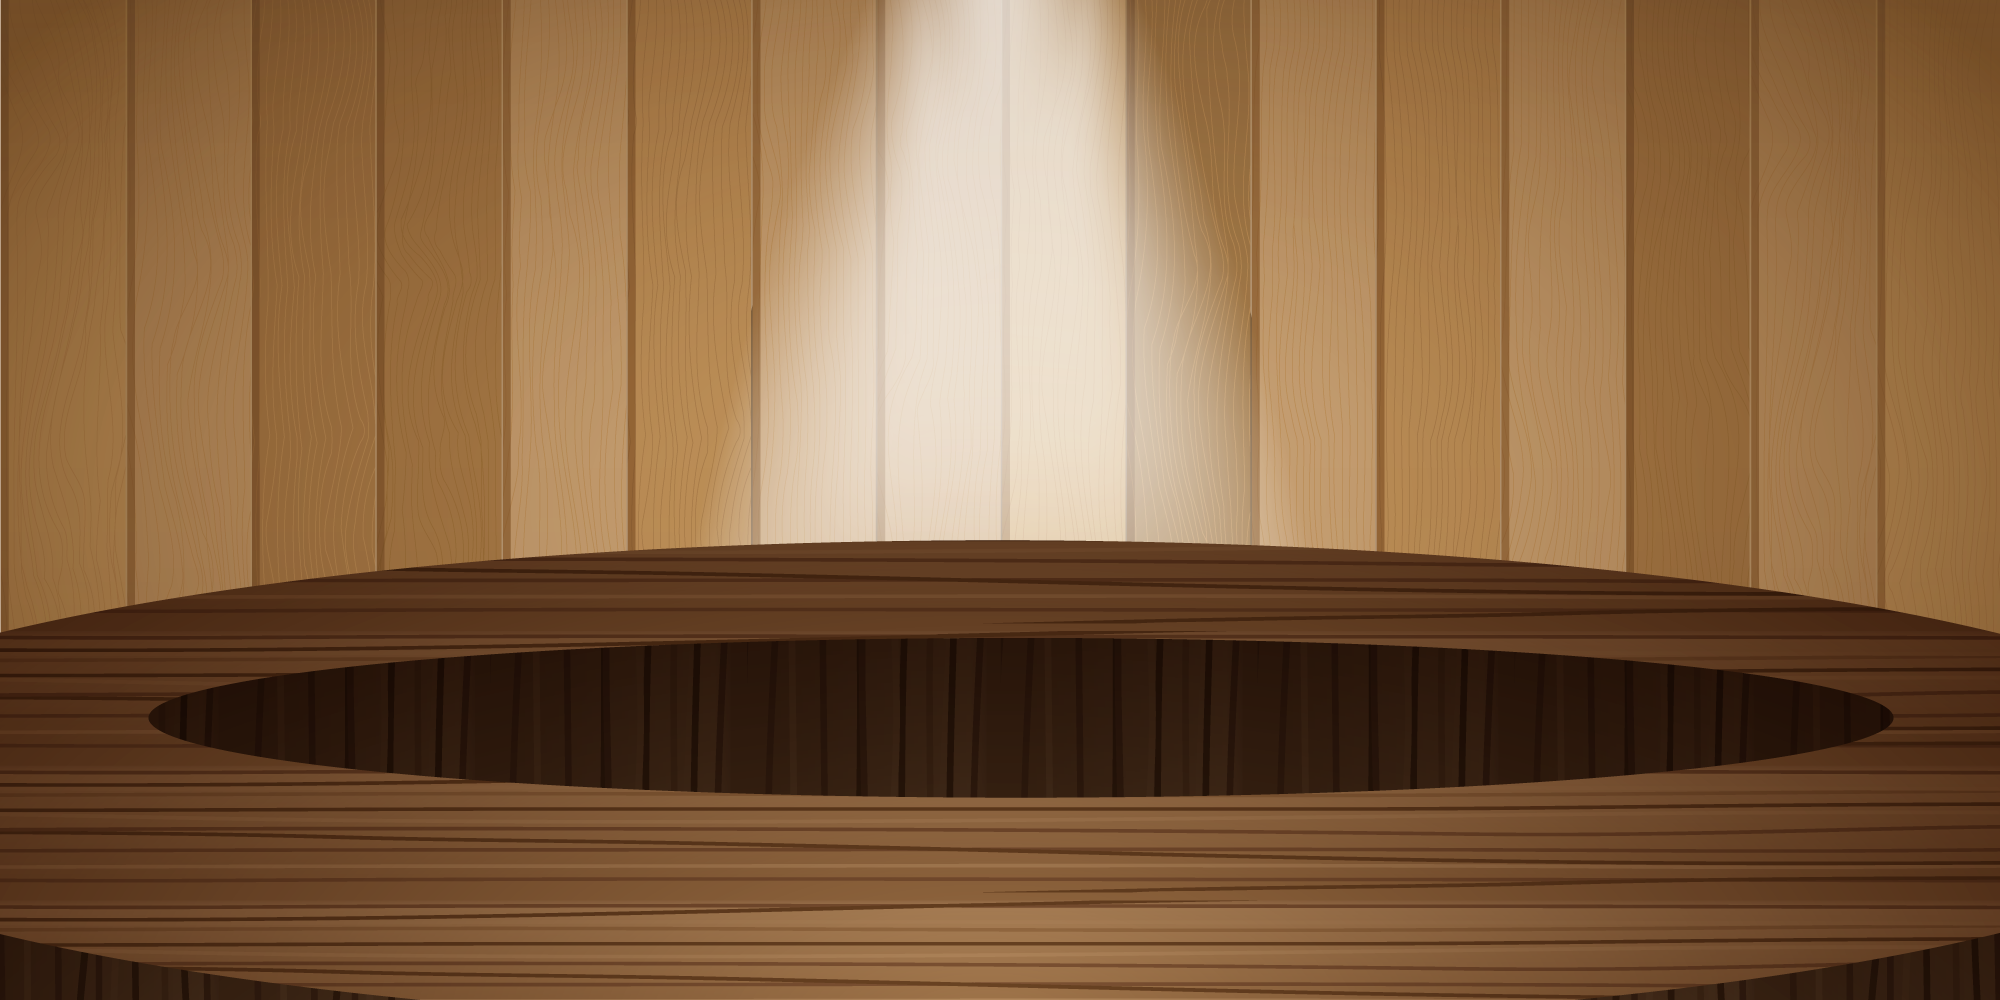
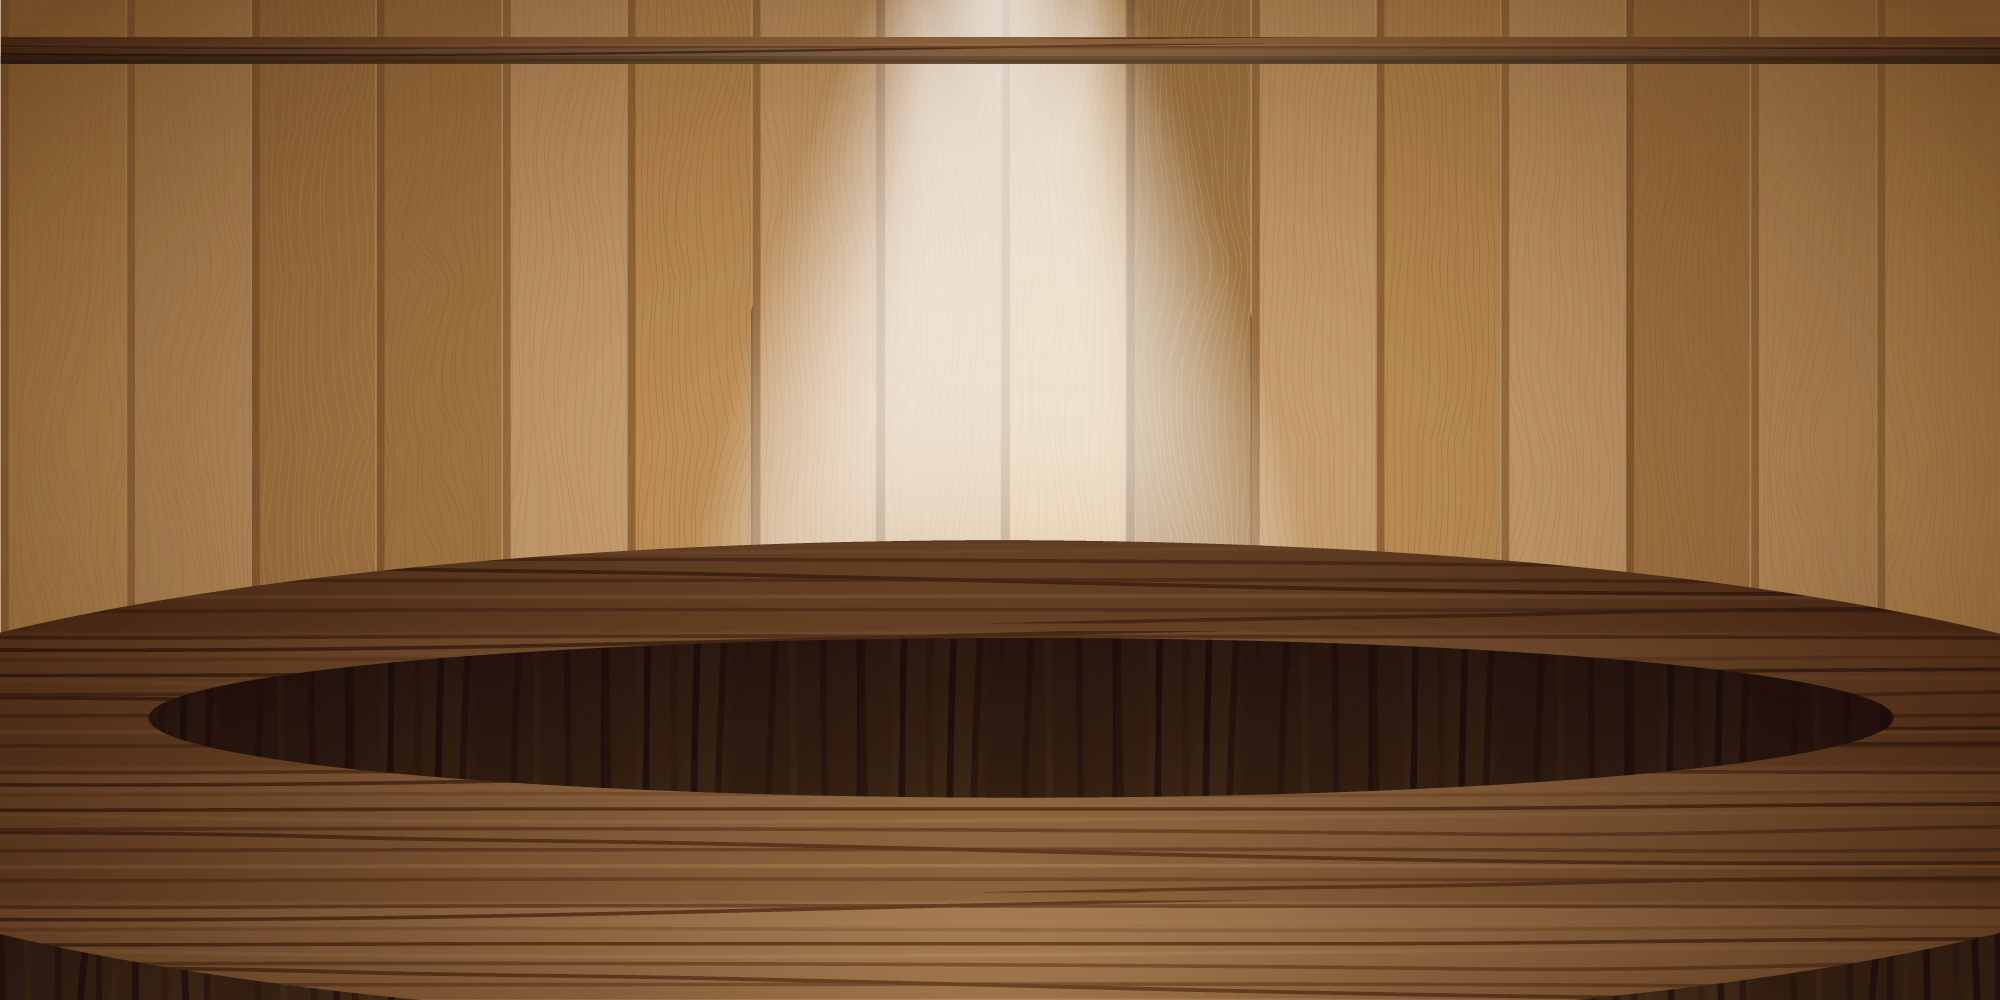
242532
5235

Changed region(s): [[0.0, 0.031, 1.0, 0.062]]

diff --git a/sketch.js b/sketch.js
@@ -1,4 +1,4 @@
-var bg, sushi1, chopsticks, top, left, right, solar;
+var bg, sushi1, chopsticks, left, right, solar;
 
 function setup() {
 
@@ -7,7 +7,6 @@ function setup() {
     bg = loadImage("bg.png");
     chopsticks = loadImage("chopsticks.png")
     sushi1 = loadImage("sushi1.png")
-    top = loadImage("top.png")
     left = loadImage("left.png")
     right = loadImage("right.png")
 
@@ -27,14 +26,11 @@ function draw() {
 	var duration3 = 50000;
 	var timing3 = (new Date()%duration3)/duration3;
 
-	//발
-	image(top,0,0,2000,500);
-
 	//발왼쪽
-	image(left,0,0,2000,500);
+	image(left,0,0,2000,1000);
 
 	//발오른쪽
-	image(right,0,0,2000,500);
+	image(right,0,0,2000,1000);
 
 	//위라인
 	noFill();
